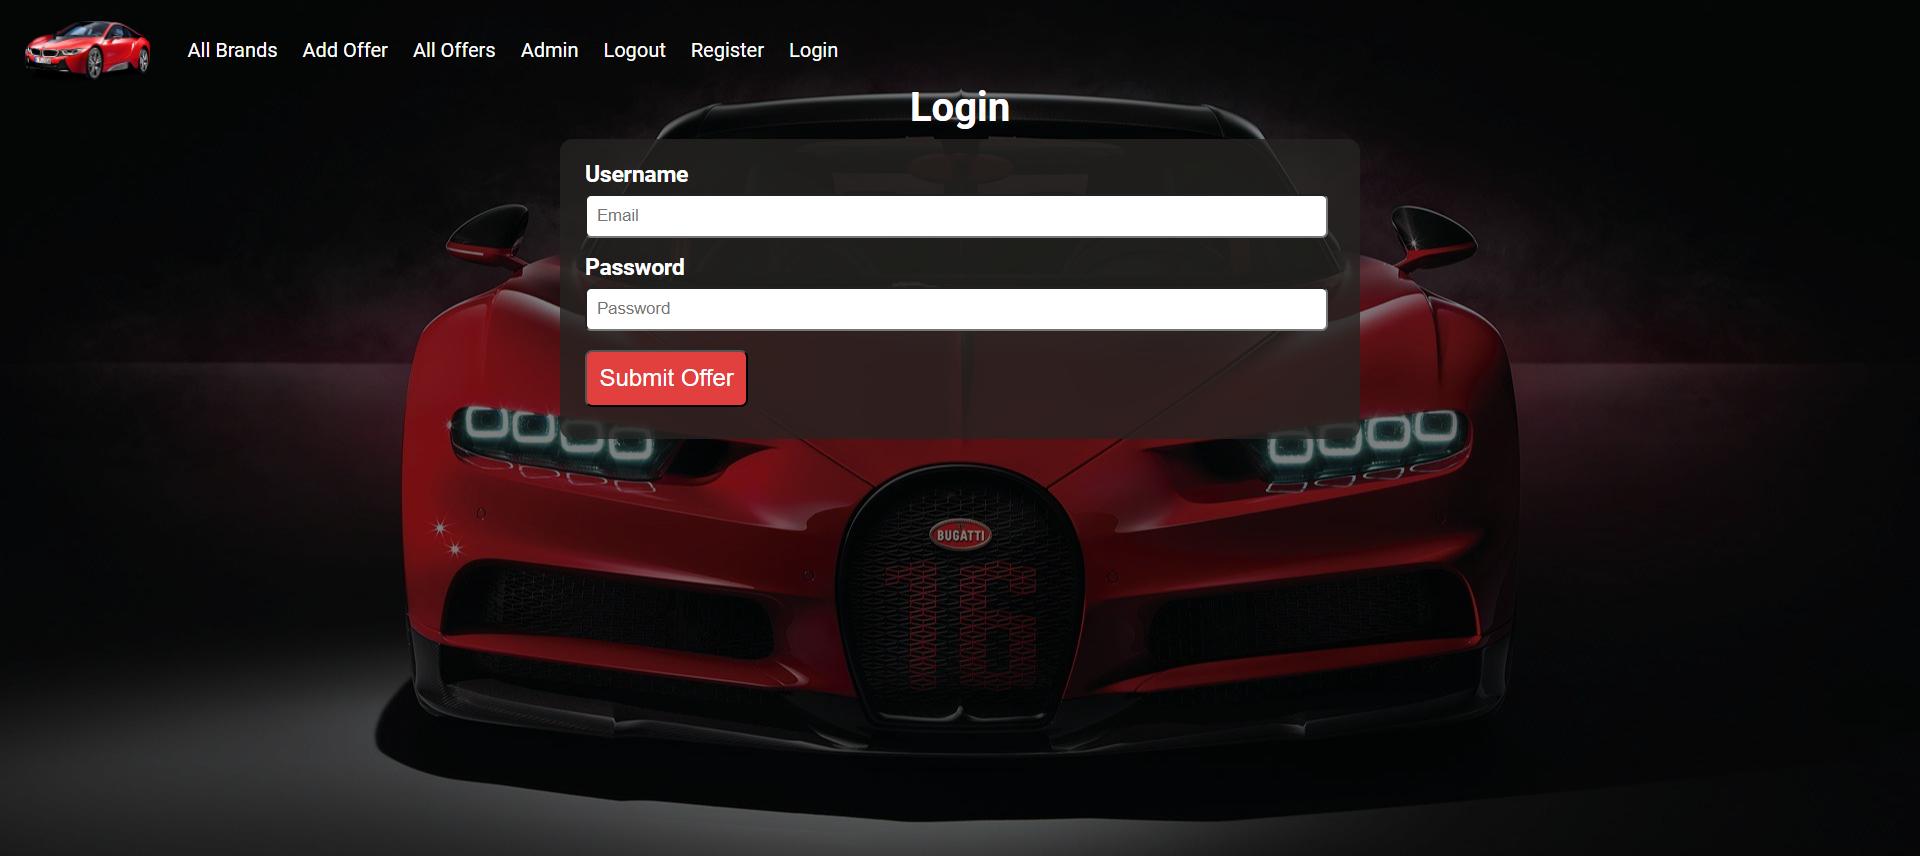
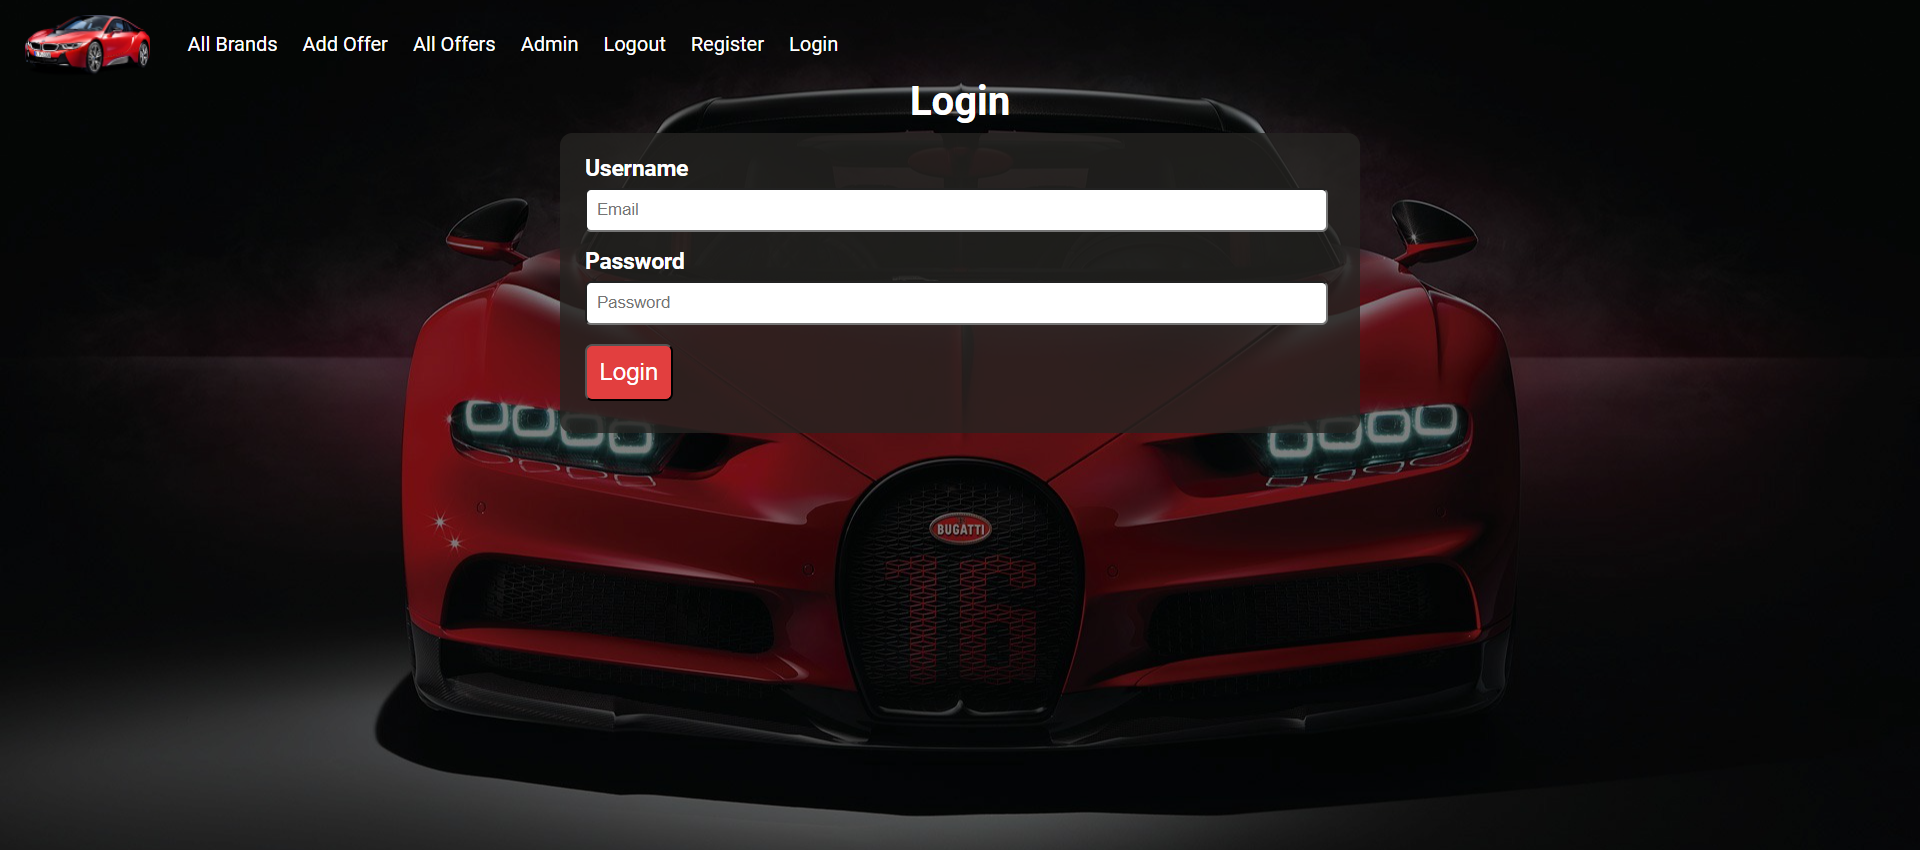
[Add] Added user Repo,Service and Dto

diff --git a/src/main/resources/templates/auth-login.html b/src/main/resources/templates/auth-login.html
@@ -1,5 +1,6 @@
 <!DOCTYPE html>
-<html lang="en">
+<html lang="en"
+      xmlns:th="http://www.thymeleaf.org">
 
 <head>
     <meta charset="UTF-8">
@@ -29,17 +30,17 @@
 <h3 class="login-text">Login</h3>
 
 <div class="login-div">
-
-    <form action="/users/login">
+    <form th:method="post"
+          th:action="@{/users/login}">
         <label>Username</label>
         <br>
-        <input class="input_login" type="text" name="email" placeholder="Email">
+        <input class="input_login" type="text" name="username" placeholder="Email"/>
         <br>
         <label>Password</label>
         <br>
-        <input class="input_login" type="password" placeholder="Password">
+        <input class="input_login" type="password" name="password" placeholder="Password"/>
         <br>
-        <button class="login_btn">Submit Offer</button>
+        <button class="login_btn">Login</button>
     </form>
 
 </div>

diff --git a/src/main/java/project/autobg/service/UserService.java b/src/main/java/project/autobg/service/UserService.java
@@ -1,0 +1,35 @@
+package project.autobg.service;
+
+import org.slf4j.Logger;
+import org.slf4j.LoggerFactory;
+import org.springframework.stereotype.Service;
+import project.autobg.model.dto.UserLoginDTO;
+import project.autobg.model.entity.UserEntity;
+import project.autobg.repository.UserRepository;
+
+import java.util.Optional;
+
+@Service
+public class UserService {
+
+    private final Logger LOGGER = LoggerFactory.getLogger(UserService.class);
+
+    private final UserRepository userRepository;
+
+    public UserService(UserRepository userRepository) {
+        this.userRepository = userRepository;
+    }
+
+    public boolean login(UserLoginDTO loginDTO) {
+        Optional<UserEntity> userOpt = userRepository.
+                findByEmail(loginDTO.getUsername());
+
+        if (userOpt.isEmpty()) {
+            LOGGER.debug("User with name [{}] not found", loginDTO.getUsername());
+            return false;
+        }
+
+        return userOpt.get().getPassword().equals(loginDTO.getPassword());
+
+    }
+}

diff --git a/src/main/java/project/autobg/web/UserLoginController.java b/src/main/java/project/autobg/web/UserLoginController.java
@@ -2,12 +2,28 @@ package project.autobg.web;
 
 import org.springframework.stereotype.Controller;
 import org.springframework.web.bind.annotation.GetMapping;
+import org.springframework.web.bind.annotation.PostMapping;
+import project.autobg.model.dto.UserLoginDTO;
+import project.autobg.service.UserService;
 
 @Controller
 public class UserLoginController {
 
+    private final UserService userService;
+
+    public UserLoginController(UserService userService) {
+        this.userService = userService;
+    }
+
     @GetMapping("/users/login")
     public String login() {
         return "auth-login";
+    }
+
+    @PostMapping("/users/login")
+    public String login(UserLoginDTO loginDTO) {
+
+        System.out.println("User is logged: " + userService.login(loginDTO));
+        return "redirect:/";
     }
 }

diff --git a/src/main/java/project/autobg/model/dto/UserLoginDTO.java b/src/main/java/project/autobg/model/dto/UserLoginDTO.java
@@ -1,0 +1,34 @@
+package project.autobg.model.dto;
+
+public class UserLoginDTO {
+
+    private String username;
+
+    private String password;
+
+    public String getUsername() {
+        return username;
+    }
+
+    public UserLoginDTO setUsername(String username) {
+        this.username = username;
+        return this;
+    }
+
+    public String getPassword() {
+        return password;
+    }
+
+    public UserLoginDTO setPassword(String password) {
+        this.password = password;
+        return this;
+    }
+
+    @Override
+    public String toString() {
+        return "UserLoginDTO{" +
+                "username='" + username + '\'' +
+                ", password='" + (password != null ? "[PROVIDED]" : null) + '\'' +
+                '}';
+    }
+}

diff --git a/src/main/java/project/autobg/repository/UserRepository.java b/src/main/java/project/autobg/repository/UserRepository.java
@@ -1,0 +1,13 @@
+package project.autobg.repository;
+
+import org.springframework.data.jpa.repository.JpaRepository;
+import org.springframework.stereotype.Repository;
+import project.autobg.model.entity.UserEntity;
+
+import java.util.Optional;
+
+@Repository
+public interface UserRepository extends JpaRepository<UserEntity, Long> {
+    Optional<UserEntity> findByEmail(String email);
+}
+
